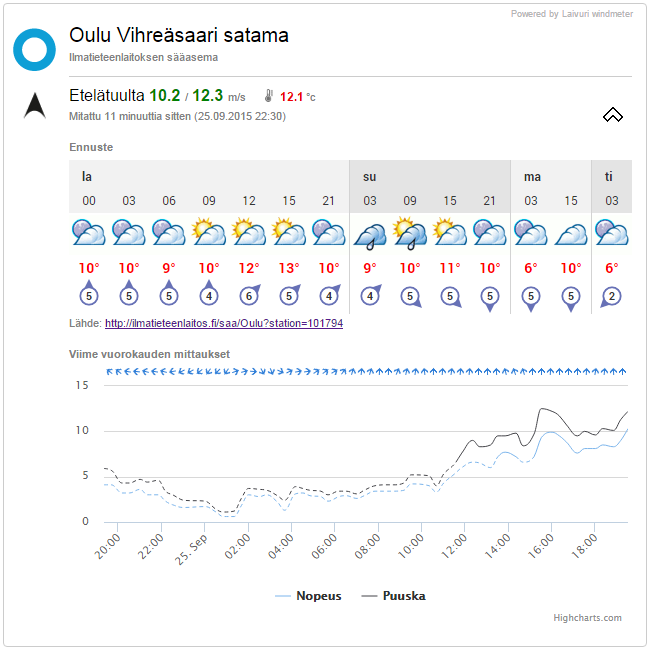
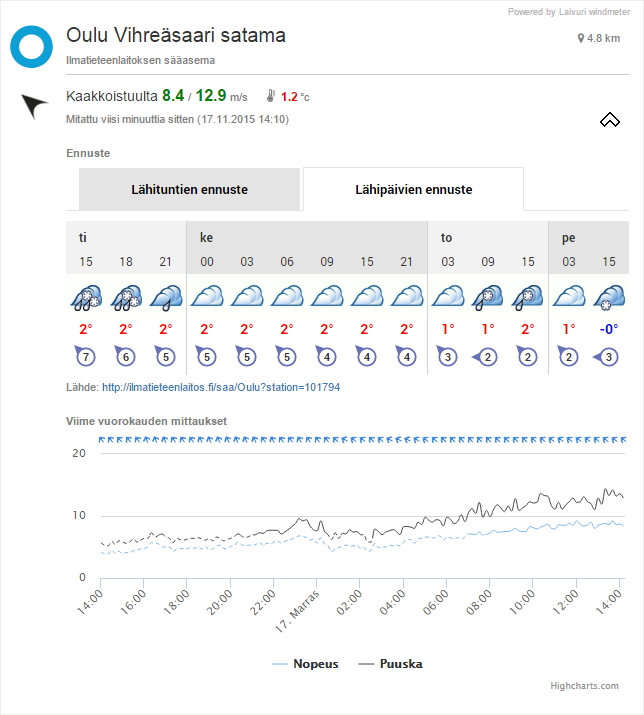
Update with new plugin features

diff --git a/README.md b/README.md
@@ -1,14 +1,14 @@
 # Windmeter Plugin
 Windmeter Plugin is a html/javascript widget which can be embedded to any webpage to show [FMI](http://ilmatieteenlaitos.fi/) wind measurements and weather forecast of a specific FMI weather station. Windmeter Plugin uses [FMI Open data](https://en.ilmatieteenlaitos.fi/open-data) API to retrieve the weather station data.
 
-Plugin has been developed as a part of ongoing [Laivuri Windmeter](http://laivuri.net/windmeter) project.
+Plugin has been developed as a part of ongoing [Laivuri Windmeter](http://windmeter.laivuri.net) project.
 
 ## Usage
 
 Instructions for embedding the Windmeter Plugin to a webpage can be found on the [wiki](../../wiki/Usage).
 
 ## Example
-Below is a screenshot of the plugin showing data from [Oulu Vihreäsaari](http://en.ilmatieteenlaitos.fi/weather/oulu?&station=101794) weather station.
+Below is a screenshot of the plugin showing data from [Oulu Vihreäsaari](http://en.ilmatieteenlaitos.fi/weather/oulu?&station=101794) weather station where the distance is calculated from Oulu.
 
 ![Screenshot](img/screenshot.png?raw=true)
 
